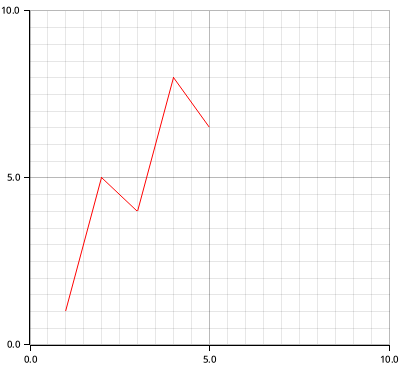
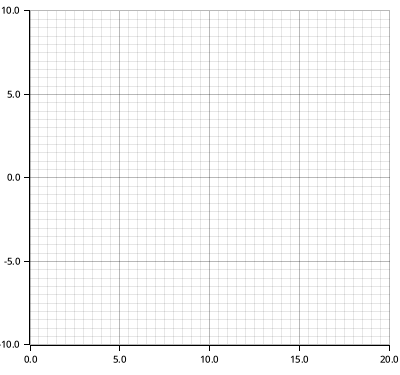
avancing

diff --git a/src/main.rs b/src/main.rs
@@ -125,8 +125,6 @@ impl eframe::App for MyApp {
 
 fn funcManager(function : String) -> Result<String, Box<dyn std::error::Error>> {
 
-    let vector = do_the_math(function);
-
     let path = "plot.png";
     let root = BitMapBackend::new(path, (400, 375)).into_drawing_area();
     root.fill(&WHITE)?;
@@ -135,7 +133,7 @@ fn funcManager(function : String) -> Result<String, Box<dyn std::error::Error>> 
         .margin(10)
         .x_label_area_size(20)
         .y_label_area_size(20)
-        .build_cartesian_2d(0f32..10f32, 0f32..10f32)?;
+        .build_cartesian_2d(0f32..20f32, -10f32..10f32)?;
 
     chart
         .configure_mesh()
@@ -144,7 +142,7 @@ fn funcManager(function : String) -> Result<String, Box<dyn std::error::Error>> 
         .draw()?;
 
     chart.draw_series(LineSeries::new(
-        vec![(1.0, 1.0), (2.0, 5.0), (3.0, 4.0), (4.0, 8.0), (5.0, 6.5)],
+        do_the_math(function),
         &RED,
     ))?;
 
@@ -164,11 +162,13 @@ fn draw_func(path: &std::path::Path) -> Result<egui::ColorImage, image::ImageErr
     ))
 }
 
-fn do_the_math(function : String) -> Vec<(f64, f64)> {
+fn do_the_math(function : String) -> Vec<(f32, f32)> {
     let mut cur_str = "".to_owned();
     let mut val : Vec<f64> = vec![];
     let mut signs : Vec<char> = vec![];
+    let mut x_places : Vec<i32> = vec![];
     let mut x = 0.0;
+    let mut i = 0;
     for chr in function.chars(){
         println!("{}", chr);
         match chr as u32 {
@@ -177,15 +177,74 @@ fn do_the_math(function : String) -> Vec<(f64, f64)> {
                 signs.push(chr);
                 cur_str = "".to_owned();
             },
-            48..=57 => cur_str += chr.to_string().as_str(),
-            120 => cur_str += &x.to_string().as_str(),
+            48..=57 => {
+                cur_str += chr.to_string().as_str(); 
+                i+=1;}
+            120 => {
+                cur_str += &x.to_string().as_str();
+                x_places.push(i);
+                i+=1;
+            }
             _ => println!("what the fuck is this shit ? : {}, char = {}", chr, chr as u32)
         } if chr == function.chars().last().unwrap(){
             val.push(get_value(cur_str.parse()));
-        }  
+        }
     }
-    println!("{:?}, {:?}", val, signs);
-    vec![(0.0, 0.0), (1.0, 0.0), (2.0, 0.0), (3.0, 0.0), (4.0, 0.0), (5.0, 0.0), (6.0, 0.0), (7.0, 0.0), (8.0, 0.0), (9.0, 0.0), (10.0, 0.0)]
+    println!("{:?}, {:?}, {:?}", val, signs, x_places);
+    let mut res : Vec<(f32, f32)> = vec![];
+    let backup_val = val;
+    let backup_sign = signs;
+    for i in 0..11 {
+        signs = backup_sign.clone();
+        val = backup_val.clone();
+        for iter in 0..x_places.len() {
+            let x_index : usize = x_places[iter] as usize;
+            val[x_index] = i as f64;
+        }
+        for iter in 0..signs.len() {
+            if signs[iter] == '*' || signs[iter] == '/' {
+                if signs[iter] == '*' {
+                    println!("*{:?}", val);
+                    val[iter] *= val[iter+1];
+                    println!("*{:?}", val);
+                    val.remove(iter+1);
+                    println!("*{:?}", val);
+                    signs.remove(iter);
+                    println!("*{:?}", val);
+                }
+            } else {
+                println!("/{:?}", val);
+                val[iter] /= val[iter+1];
+                println!("/{:?}", val);
+                val.remove(iter+1);
+                println!("/{:?}", val);
+                signs.remove(iter);
+                println!("/{:?}", val);
+            }
+            
+        }
+        for iter in 0..signs.len() {
+            if signs[iter] == '+' || signs[iter] == '-' {
+                if signs[iter] == '+' {
+                    val[iter] += val[iter+1];
+                    val.remove(iter+1);
+                    signs.remove(iter);
+                    println!("+{:?}", val);
+                }
+            } else {
+                val[iter] -= val[iter+1];
+                val.remove(iter+1);
+                signs.remove(iter);
+                println!("-{:?}", val);
+            }
+        }
+        
+        let r : f32 = 0.0;
+
+        let tuple = (i as f32, r);
+        res.push(tuple);
+    }
+    return res;
 }
 
 fn get_value<T, E>(res : Result<T, E>) -> T {
